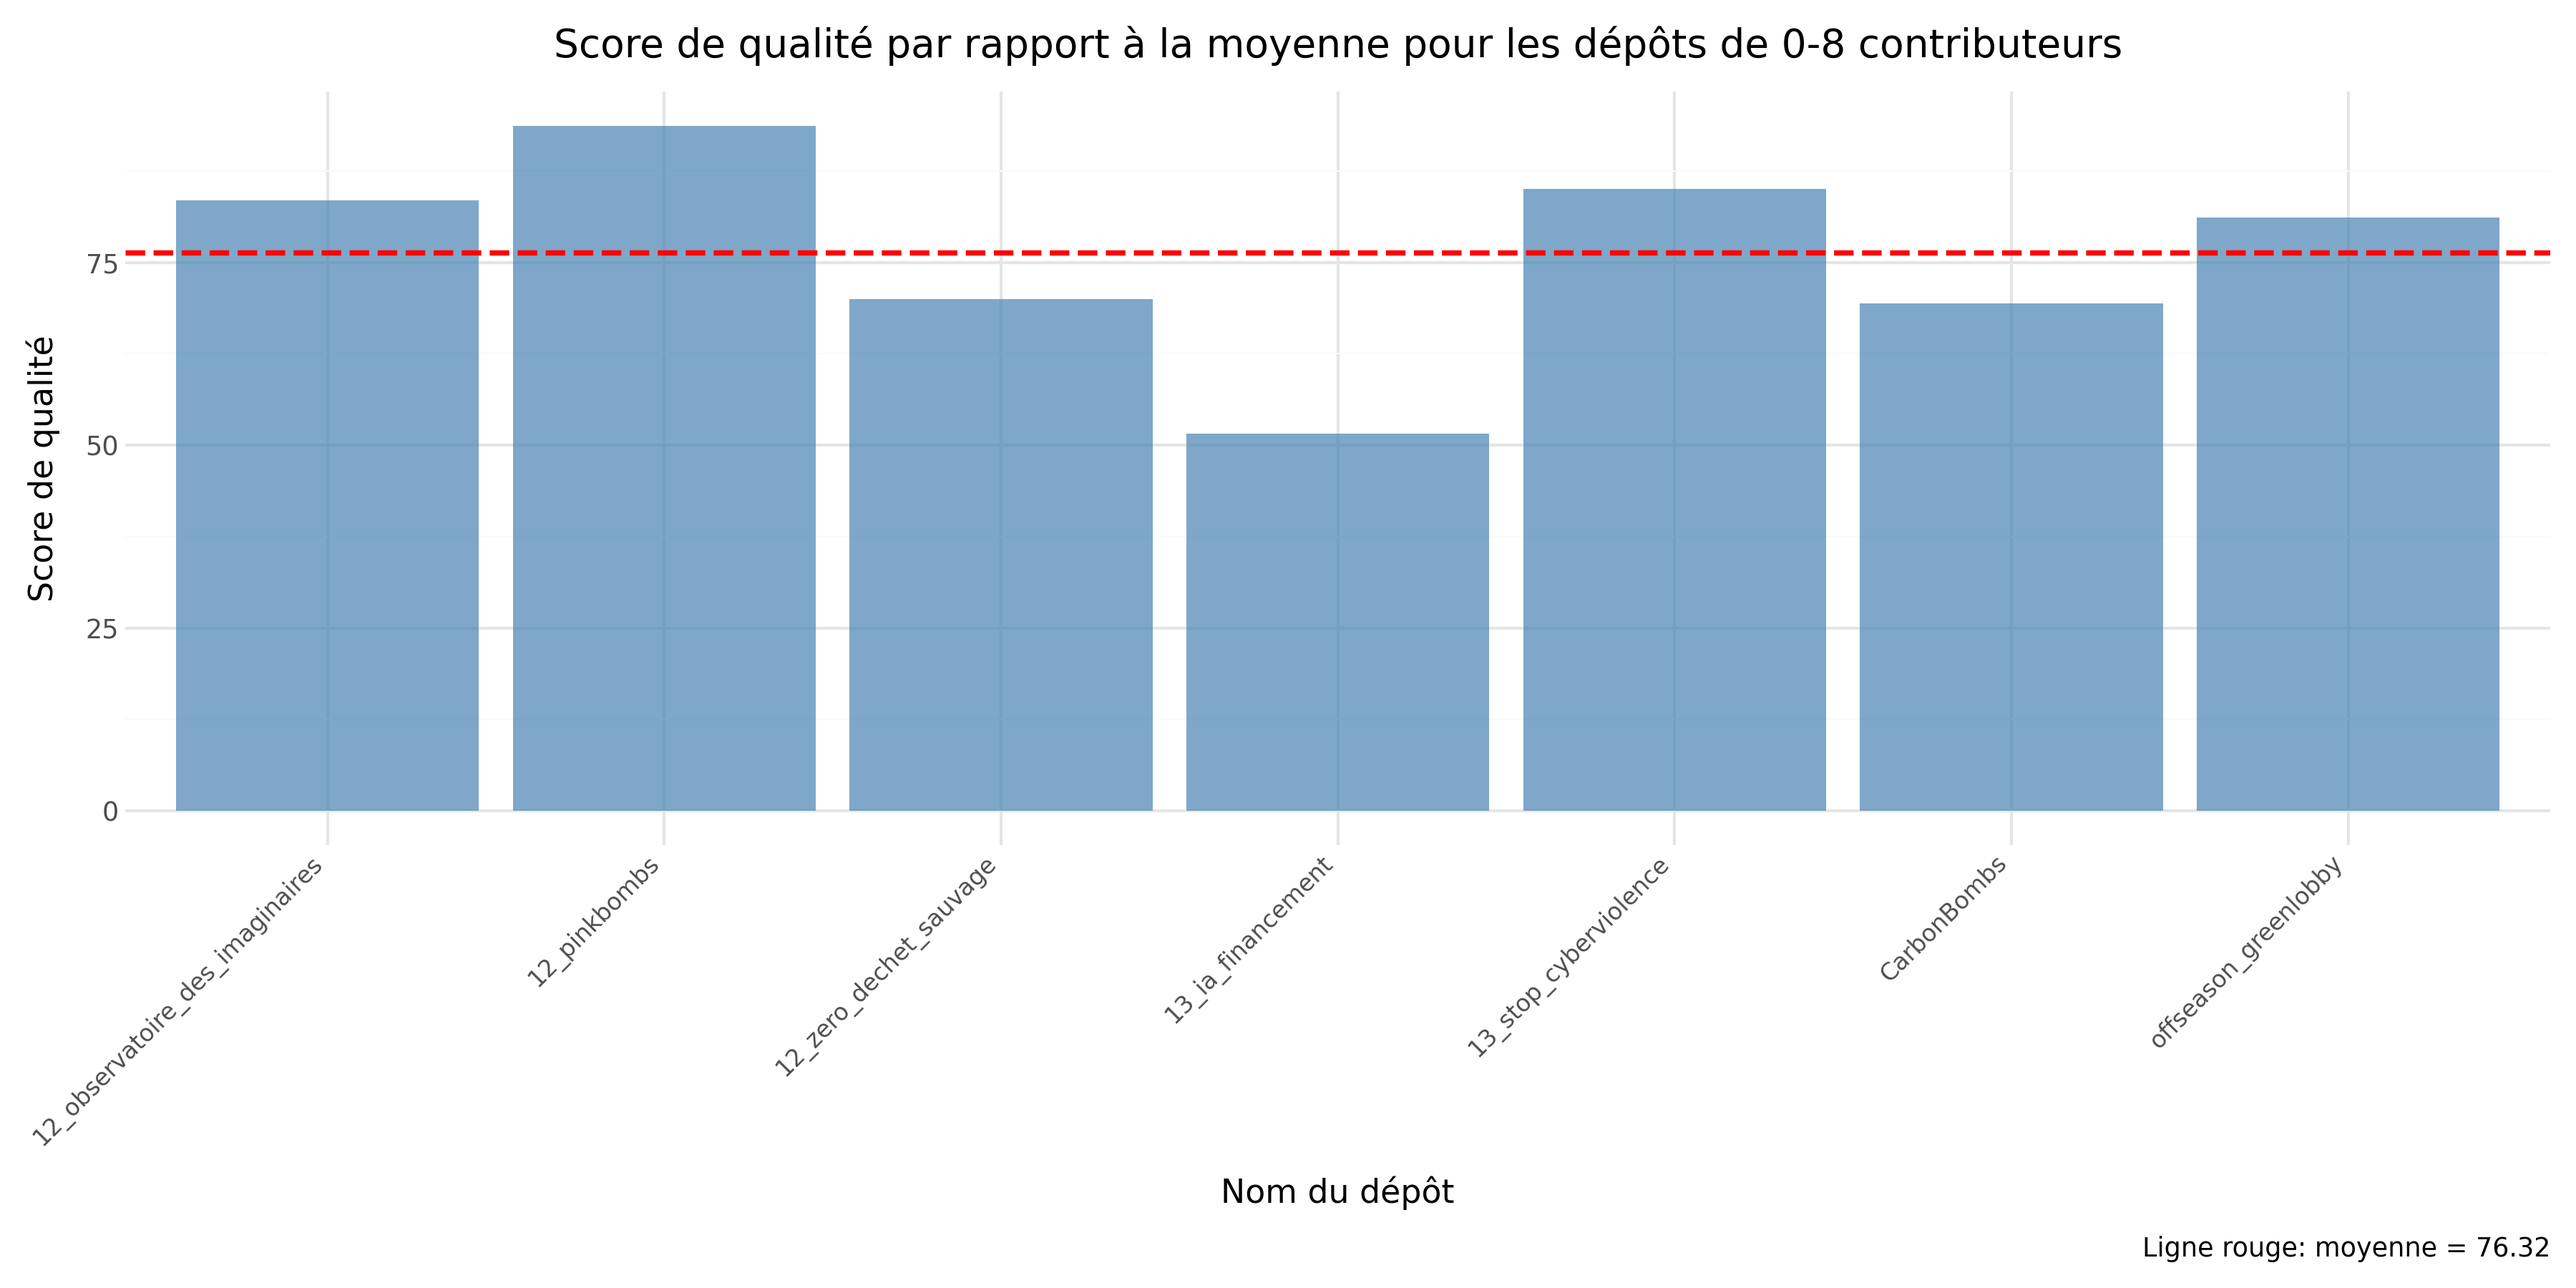
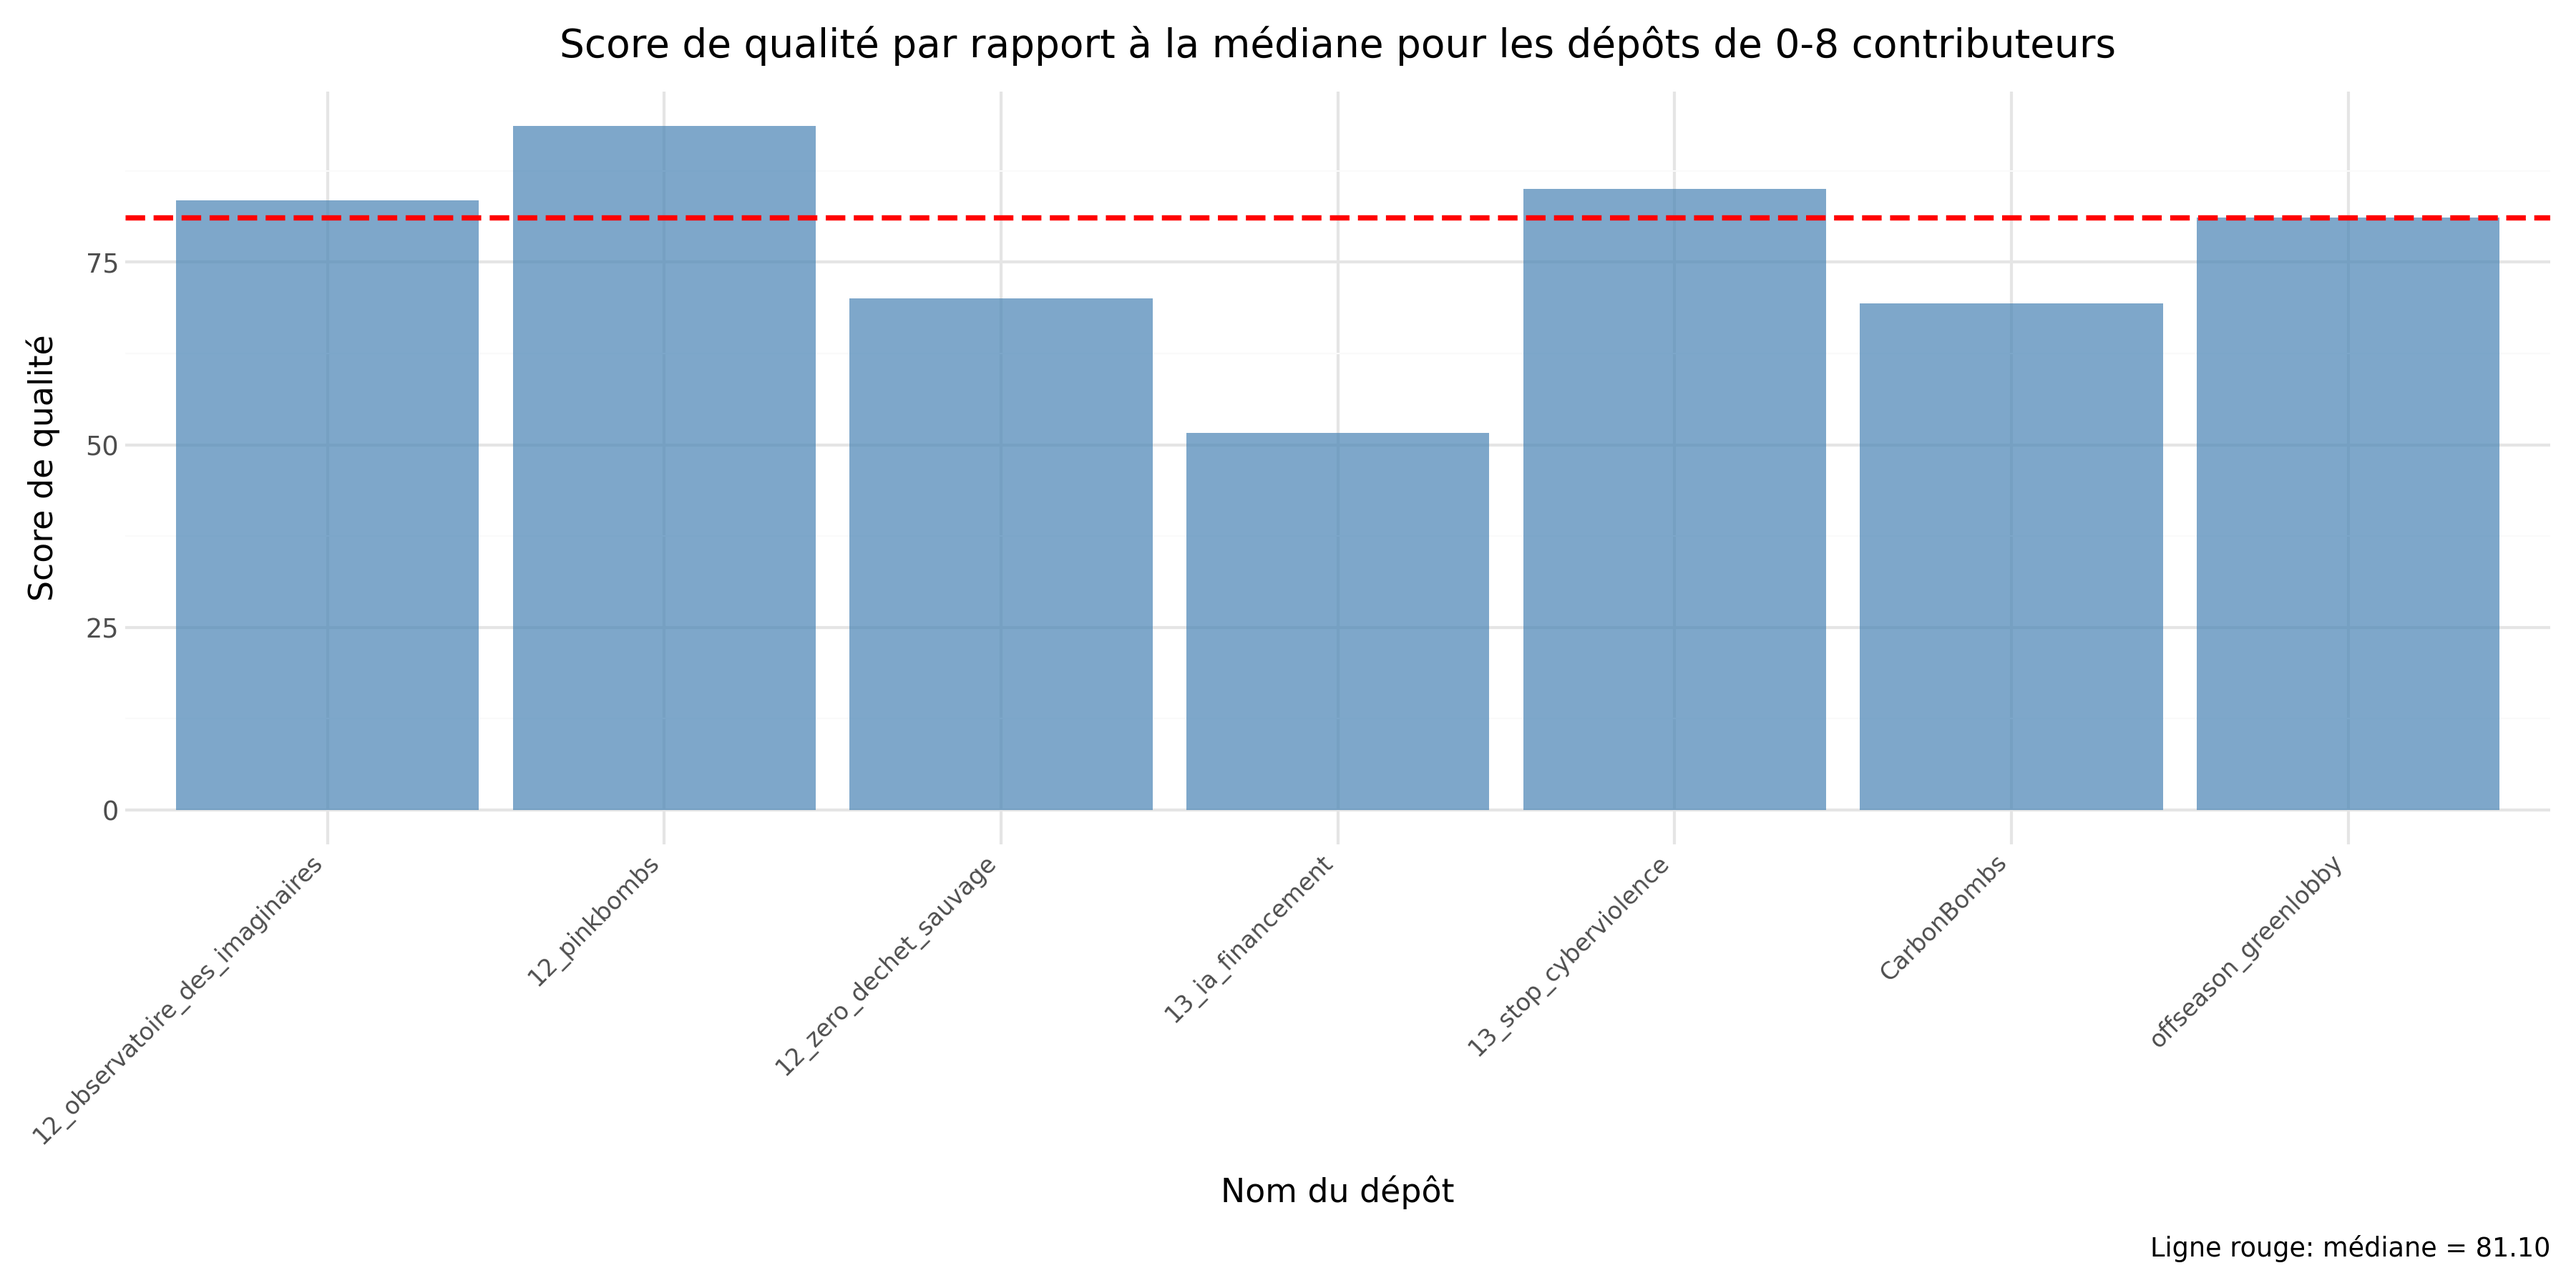
fix: update quality graph calculations to use median instead of mean

diff --git a/2-nombre-contributeurs/generate_quality_graphs.py b/2-nombre-contributeurs/generate_quality_graphs.py
@@ -47,24 +47,24 @@ for group_num, group_label in groups:
         print(f"Aucune donnée pour le {group_label}")
         continue
     
-    mean_score = df_group["score"].mean()
-    print(f"{group_label}: {len(df_group)} repos, moyenne = {mean_score:.2f}")
+    median_score = df_group["score"].median()
+    print(f"{group_label}: {len(df_group)} repos, médiane = {median_score:.2f}")
     df_group = df_group.sort_values("score")
     
     plot = (
         ggplot(df_group, aes(x="repo_name", y="score"))
         + geom_bar(stat="identity", fill="steelblue", alpha=0.7)
-        + geom_hline(yintercept=mean_score, color="red", linetype="dashed", size=1)
+        + geom_hline(yintercept=median_score, color="red", linetype="dashed", size=1)
         + theme_minimal()
         + theme(
             axis_text_x=element_text(rotation=45, hjust=1, size=8),
             figure_size=(12, 6)
         )
         + labs(
-            title=f"Score de qualité par rapport à la moyenne pour les dépôts de {group_label.split('(')[1].split(')')[0]}",
+            title=f"Score de qualité par rapport à la médiane pour les dépôts de {group_label.split('(')[1].split(')')[0]}",
             x="Nom du dépôt",
             y="Score de qualité",
-            caption=f"Ligne rouge: moyenne = {mean_score:.2f}"
+            caption=f"Ligne rouge: médiane = {median_score:.2f}"
         )
     )
     
